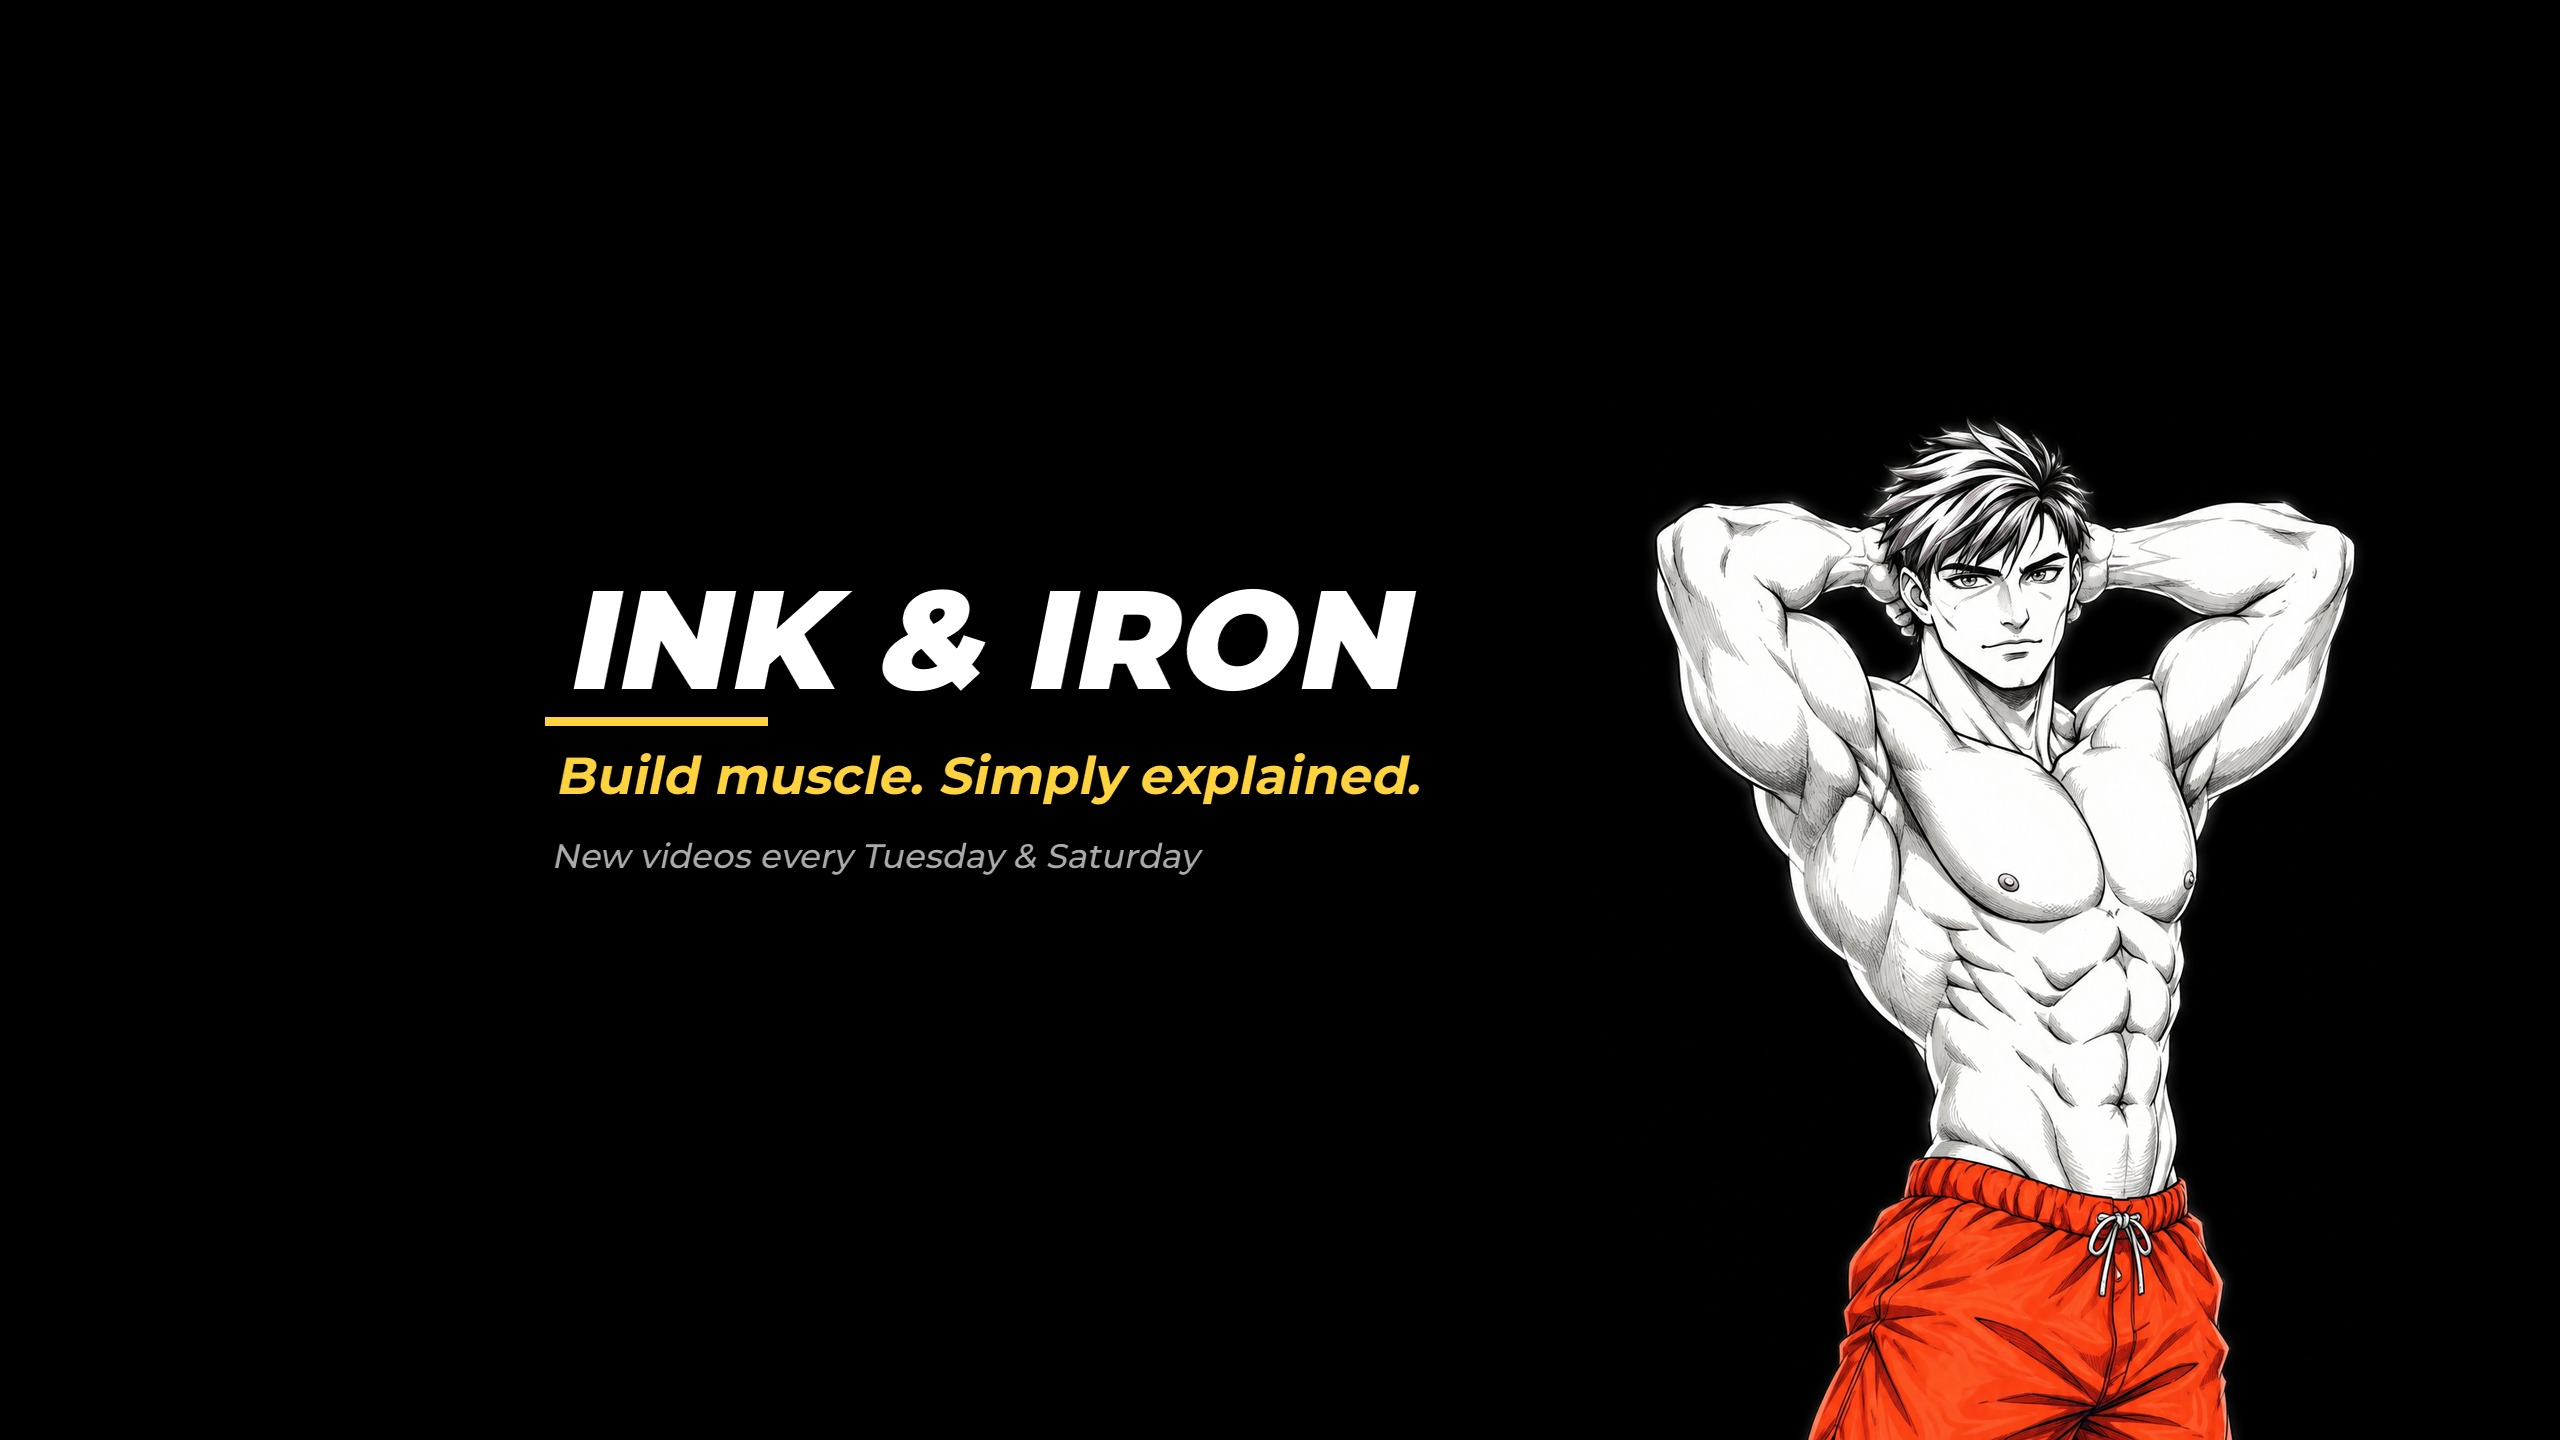
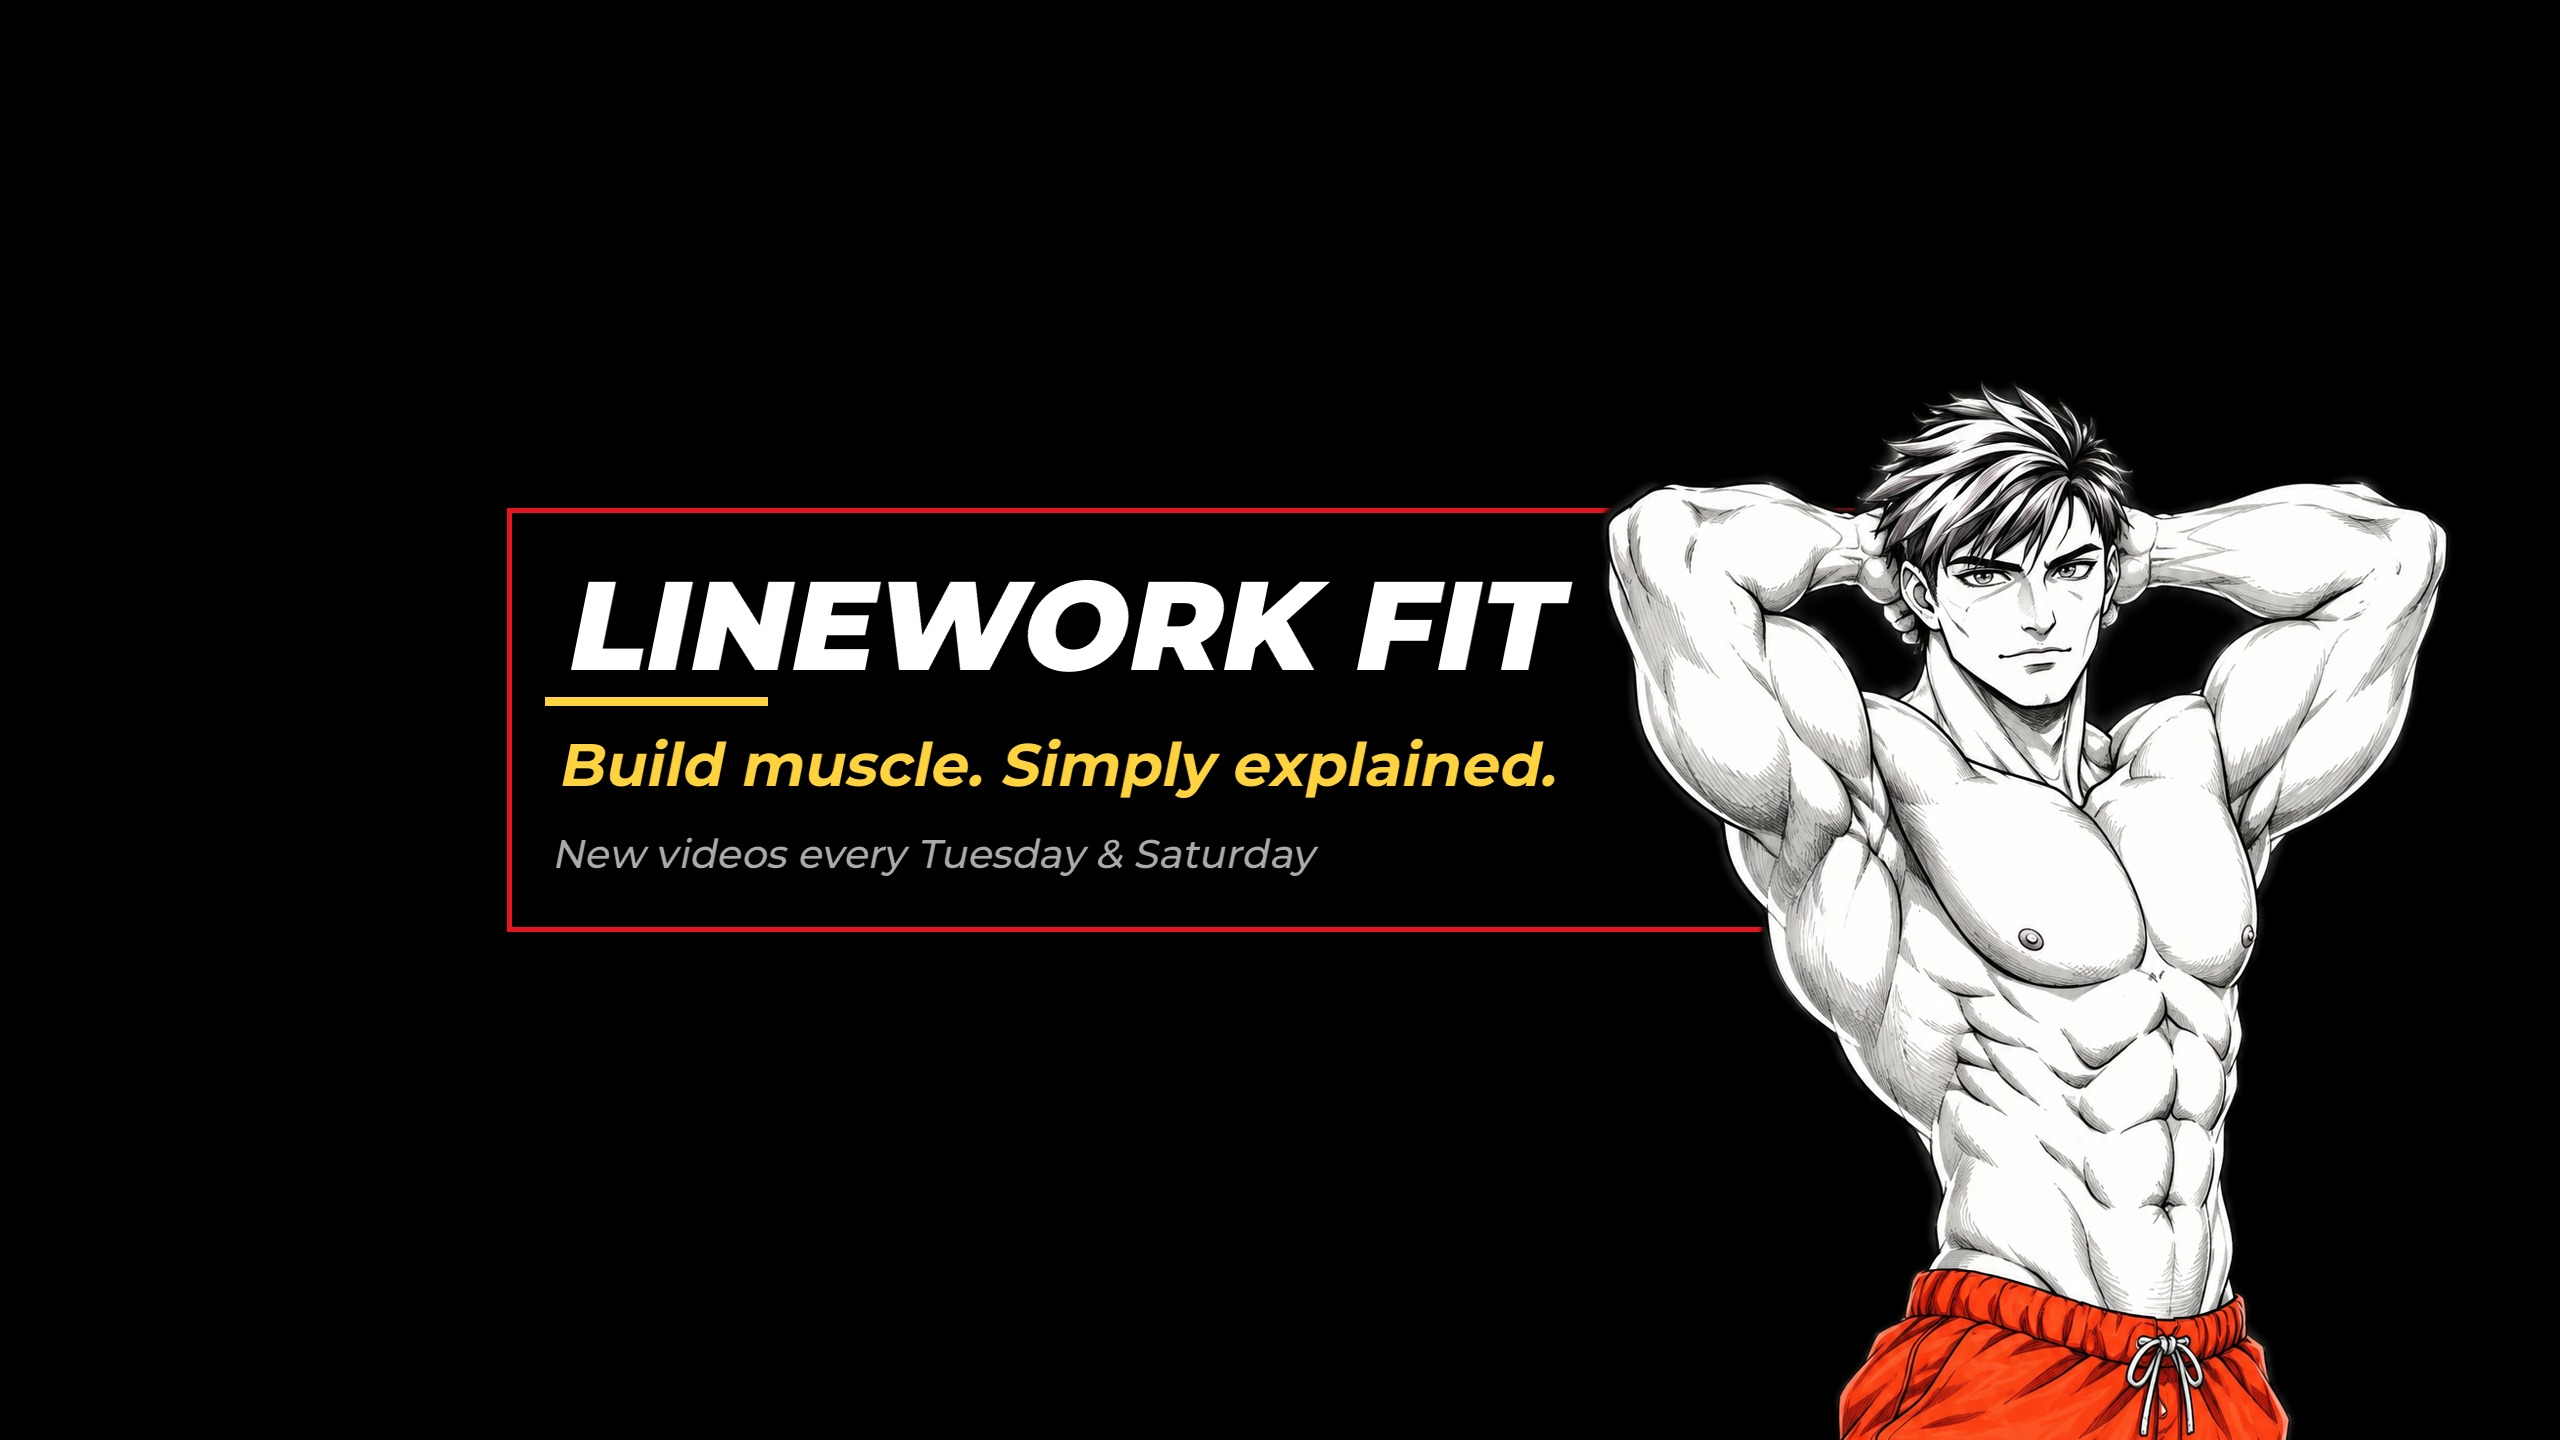
Bannière Linework Fit : cadre rouge derrière le personnage
Claude-Session: https://claude.ai/code/session_01HfTJRBKojVvCYkTdJc6zQ1

Changed region(s): [[0.1875, 0.25, 0.9688, 1.0]]

diff --git a/motion/tools/banner.py b/motion/tools/banner.py
@@ -1,25 +1,33 @@
-# Bannière YouTube 2560×1440 : personnage à droite, texte dans la zone visible partout (1546×423 au centre).
-# usage : banner.py <personnage.png> <sortie.jpg> "<NOM>" "<slogan>" "<ligne 3>" [--guide]
+# Bannière YouTube 2560×1440 : personnage à droite, cadre rouge qui passe DERRIÈRE lui,
+# texte dans la zone visible partout (1546×423 au centre).
+# usage : banner.py <personnage.png fond noir> <sortie.jpg> "<NOM>" "<slogan>" "<ligne 3>"
 import sys
+import numpy as np
 from PIL import Image, ImageDraw, ImageFont, ImageFilter
+from scipy import ndimage
 src, out, name, tag, sub = sys.argv[1:6]
 FONT = __file__.replace('tools/banner.py', 'fonts/Montserrat.ttf')
 W, H = 2560, 1440; SX, SY, SW, SH = (W - 1546) // 2, (H - 423) // 2, 1546, 423
 img = Image.new('RGB', (W, H), 'black')
-ch = Image.open(src).convert('RGB'); s = 1250 / ch.height
-ch = ch.resize((int(ch.width * s), 1250), Image.LANCZOS)
-cx = SX + SW - ch.width // 2 - 60      # personnage collé à droite de la zone sûre
-img.paste(ch, (cx, SY - 110))           # tête + torse dans la bande visible sur téléphone
+# cadre rouge (dessiné avant le personnage → il passe derrière)
+ImageDraw.Draw(img).rectangle((SX, SY, SX + SW, SY + SH), outline=(230, 20, 30), width=5)
+ch = Image.open(src).convert('RGB'); s = 1500 / ch.height
+ch = ch.resize((int(ch.width * s), 1500), Image.LANCZOS)
+# détourage : tout ce qui n'est pas noir + trous bouchés (cheveux sombres) + petite marge
+a = np.asarray(ch).max(2) > 18
+a = ndimage.binary_closing(a, iterations=6); a = ndimage.binary_fill_holes(a)
+mask = Image.fromarray((a * 255).astype('uint8')).filter(ImageFilter.MaxFilter(5)).filter(ImageFilter.GaussianBlur(2))
+img.paste(ch, (SX + SW - ch.width // 2 - 40, SY - 150), mask)
 def font(sz, wt): f = ImageFont.truetype(FONT, sz); f.set_variation_by_axes([wt]); return f
-def italic_text(txt, sz, wt, fill, x, y):  # texte penché comme dans les vidéos
+def italic_text(txt, sz, wt, fill, x, y, maxw=1000):  # texte penché, réduit s'il est trop large
+    while font(sz, wt).getlength(txt) > maxw: sz -= 2
     f = font(sz, wt); bb = f.getbbox(txt); tw, th = bb[2] + 40, bb[3] + 20
     lay = Image.new('L', (tw + th // 4, th)); ImageDraw.Draw(lay).text((th // 4, 0), txt, font=f, fill=255)
     lay = lay.transform(lay.size, Image.AFFINE, (1, 0.2, -th * 0.1, 0, 1, 0), Image.BICUBIC)
     img.paste(Image.new('RGB', lay.size, fill), (x, y), lay); return th
-x, y = SX + 30, SY + 45
-y += italic_text(name, 140, 850, (255, 255, 255), x, y) + 5
-d = ImageDraw.Draw(img); d.rectangle((x + 8, y, x + 230, y + 8), fill=(255, 210, 63)); y += 26
-y += italic_text(tag, 52, 700, (255, 210, 63), x, y) + 10
-italic_text(sub, 34, 500, (170, 170, 170), x, y)
-if '--guide' in sys.argv: ImageDraw.Draw(img).rectangle((SX, SY, SX + SW, SY + SH), outline=(255, 0, 0), width=4)
+x, y = SX + 30, SY + 40
+y += italic_text(name, 170, 850, (255, 255, 255), x, y) + 5
+ImageDraw.Draw(img).rectangle((x + 8, y, x + 230, y + 8), fill=(255, 210, 63)); y += 30
+y += italic_text(tag, 64, 700, (255, 210, 63), x, y) + 10
+italic_text(sub, 40, 500, (170, 170, 170), x, y)
 img.save(out, quality=92); print('ok', out)
